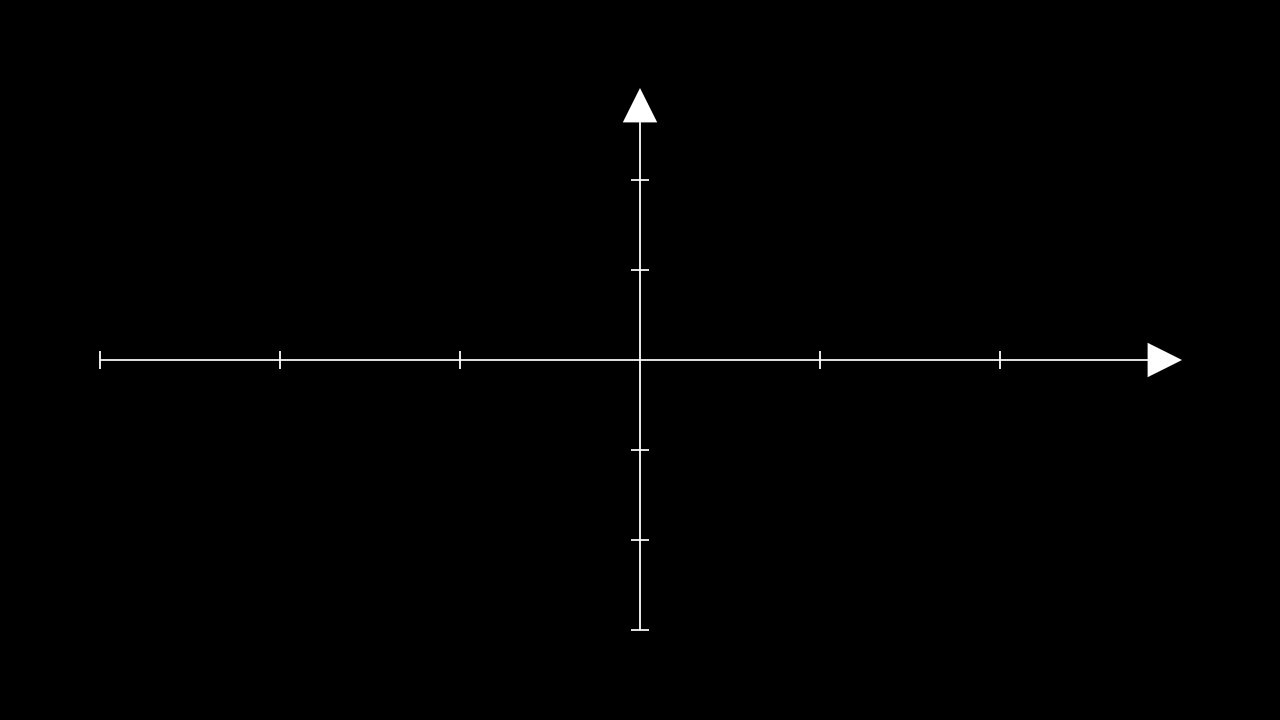
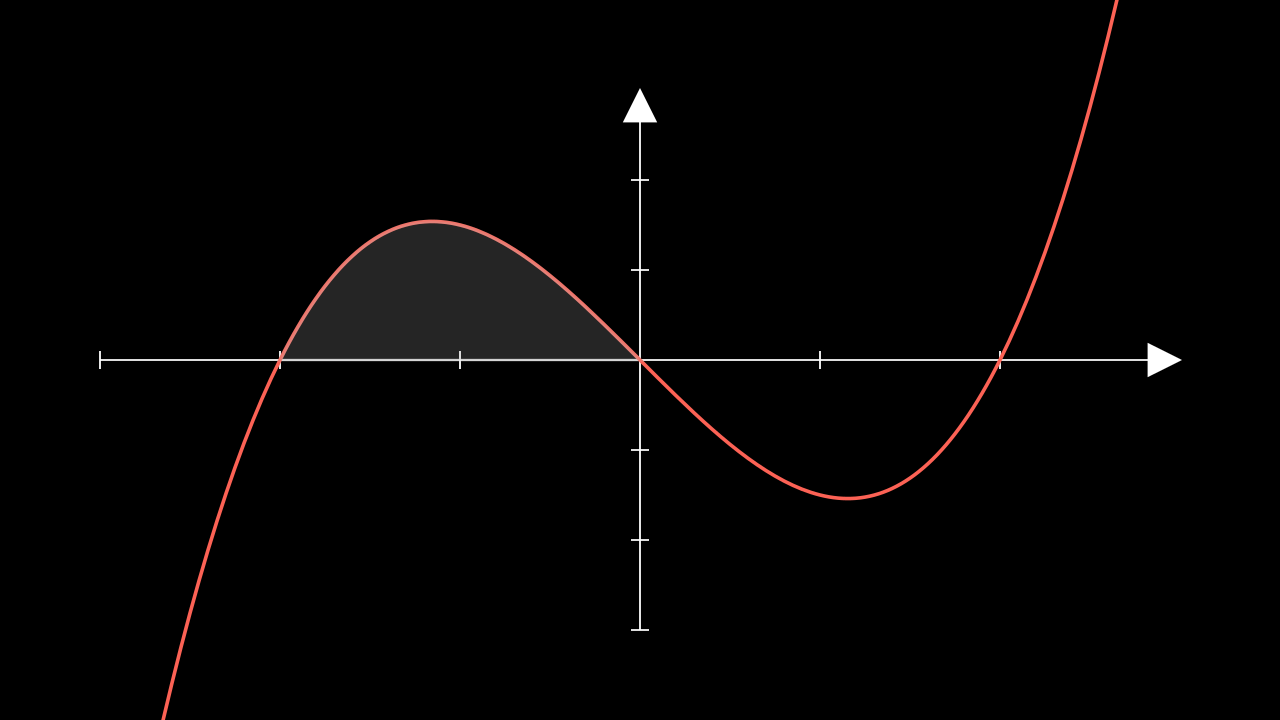
adding some elements to scene

diff --git a/benjamin-hackl-tutorial/first-example.py b/benjamin-hackl-tutorial/first-example.py
@@ -3,5 +3,6 @@ from manim import *
 class FirstExample(Scene):
     def construct(self):
         ax = Axes(x_range=(-3, 3), y_range=(-3, 3))
-
-        self.add(ax)
+        curve = ax.plot(lambda x: (x + +2)*x*(x-2)/2, color=RED)
+        area = ax.get_area(curve, x_range=(-2, 0), color=LIGHT_GRAY, opacity=0.2)
+        self.add(ax, curve, area)
